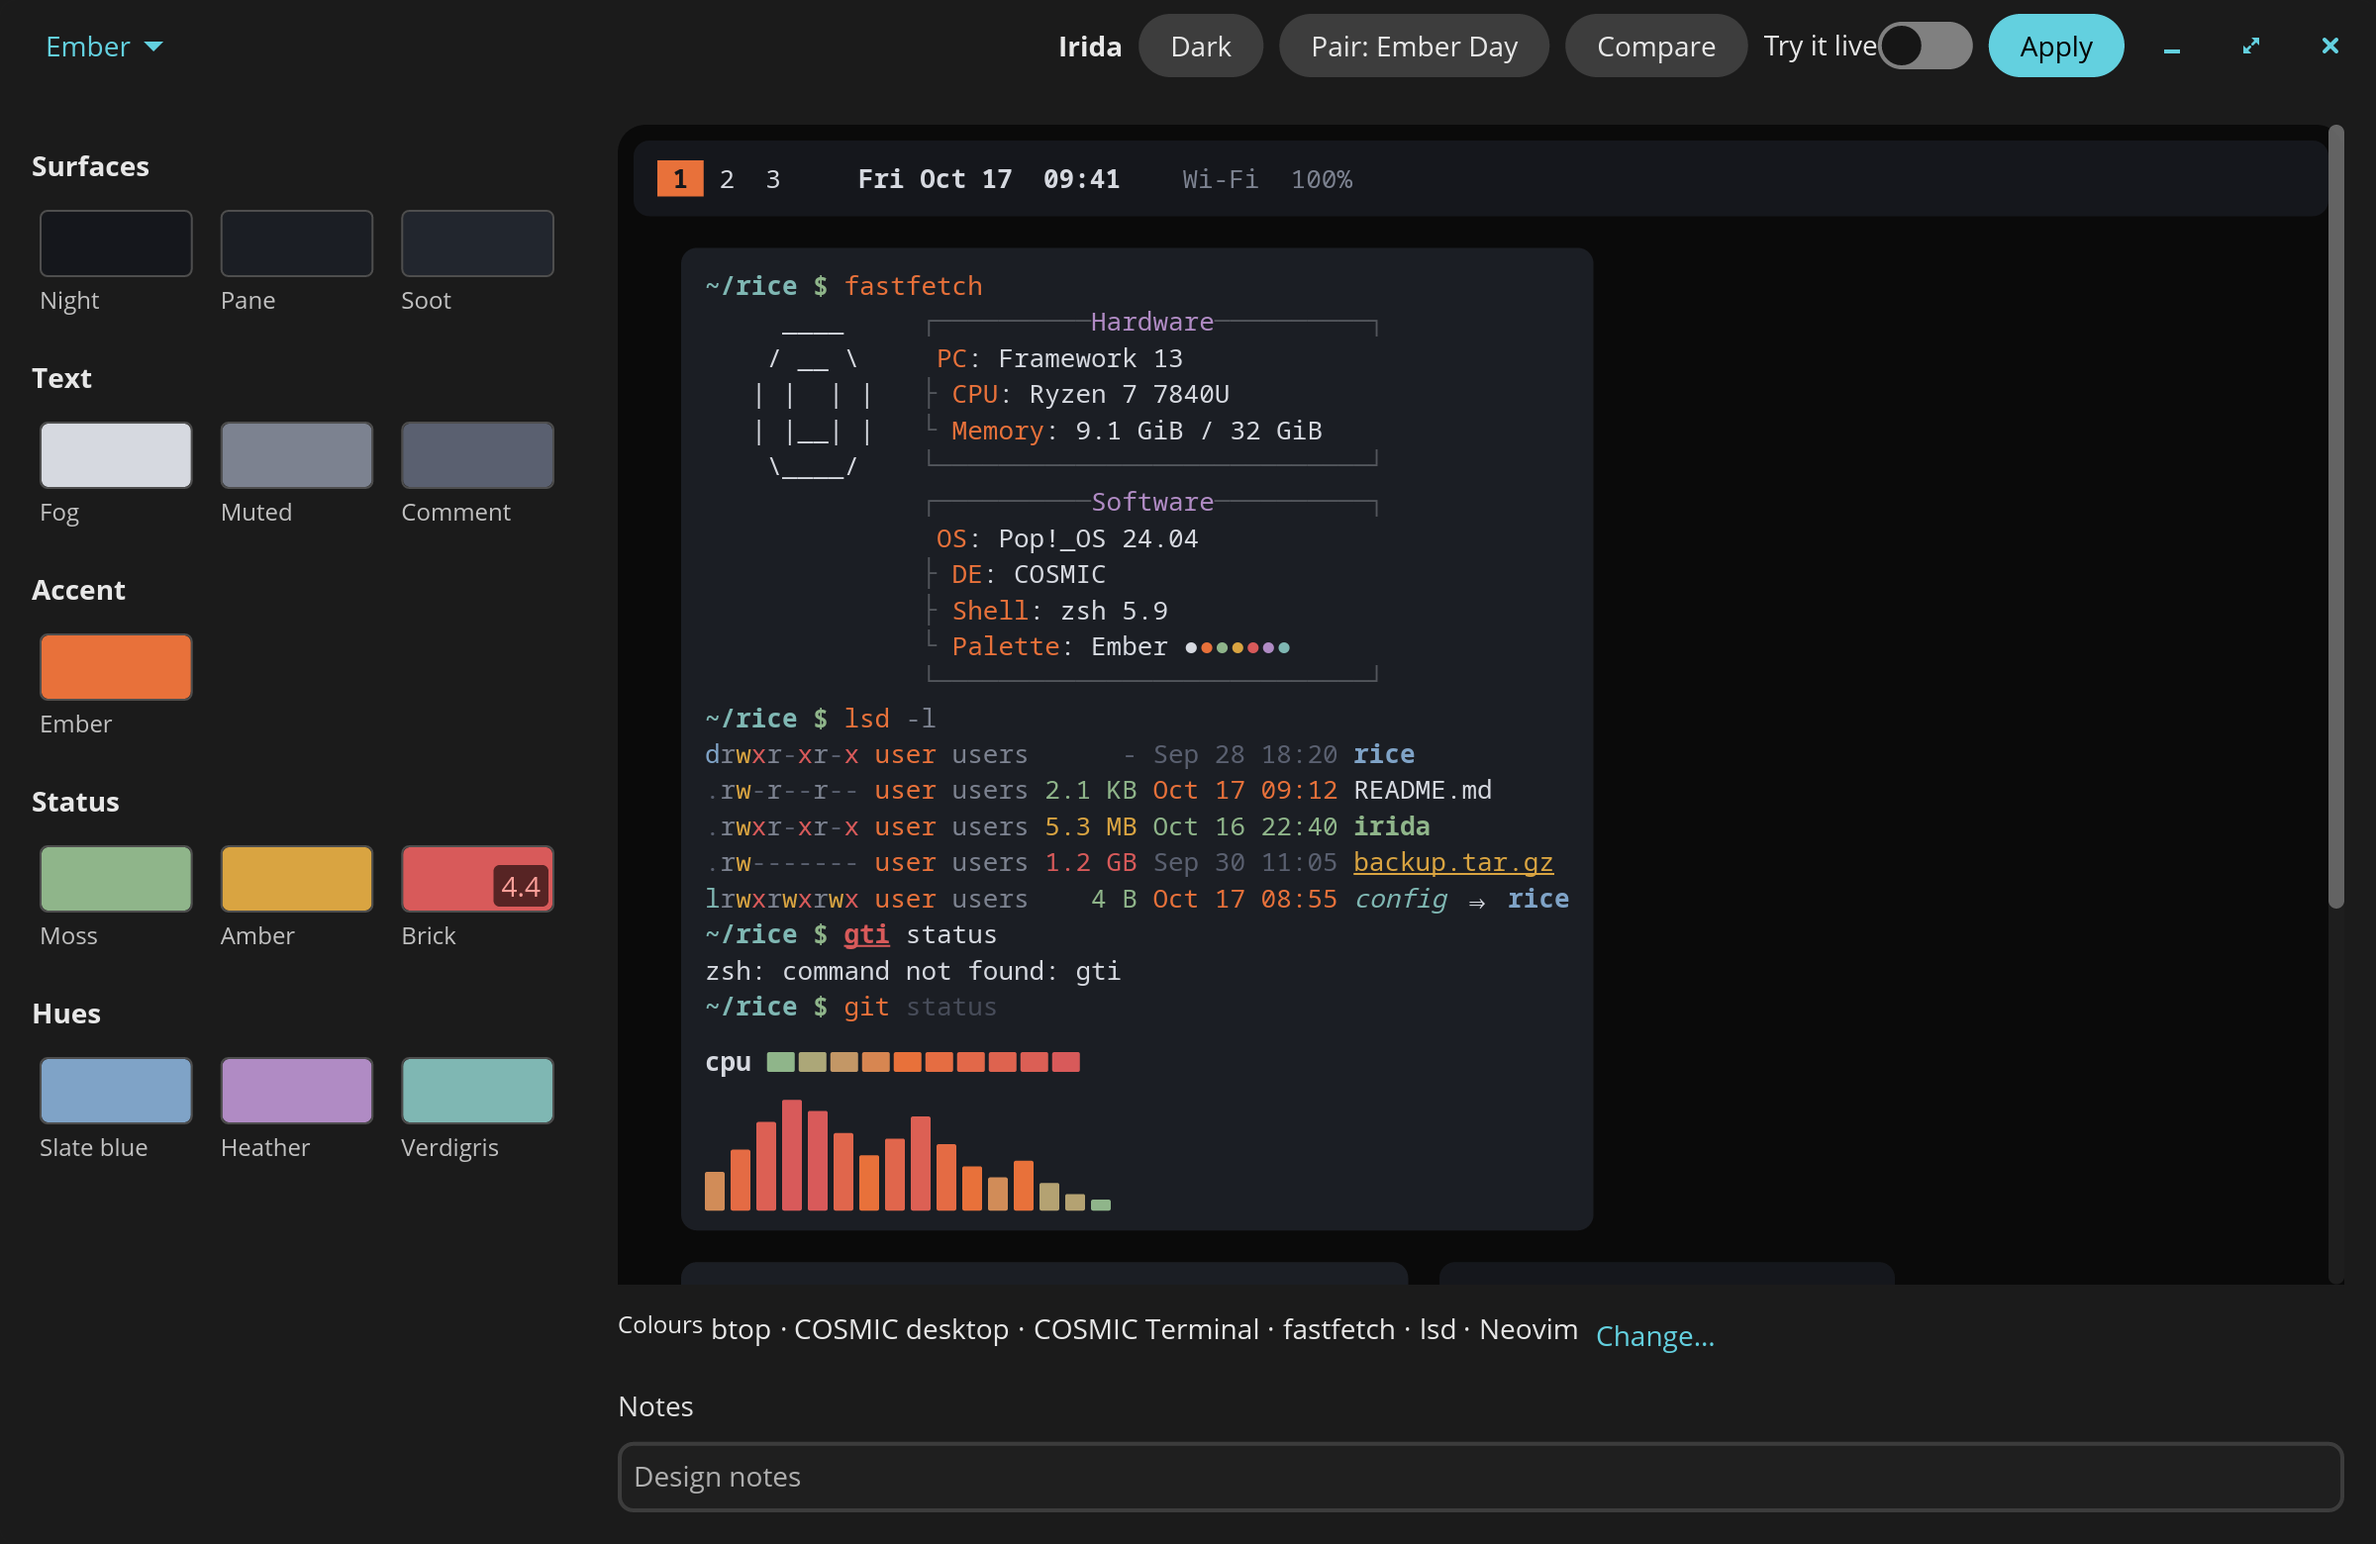
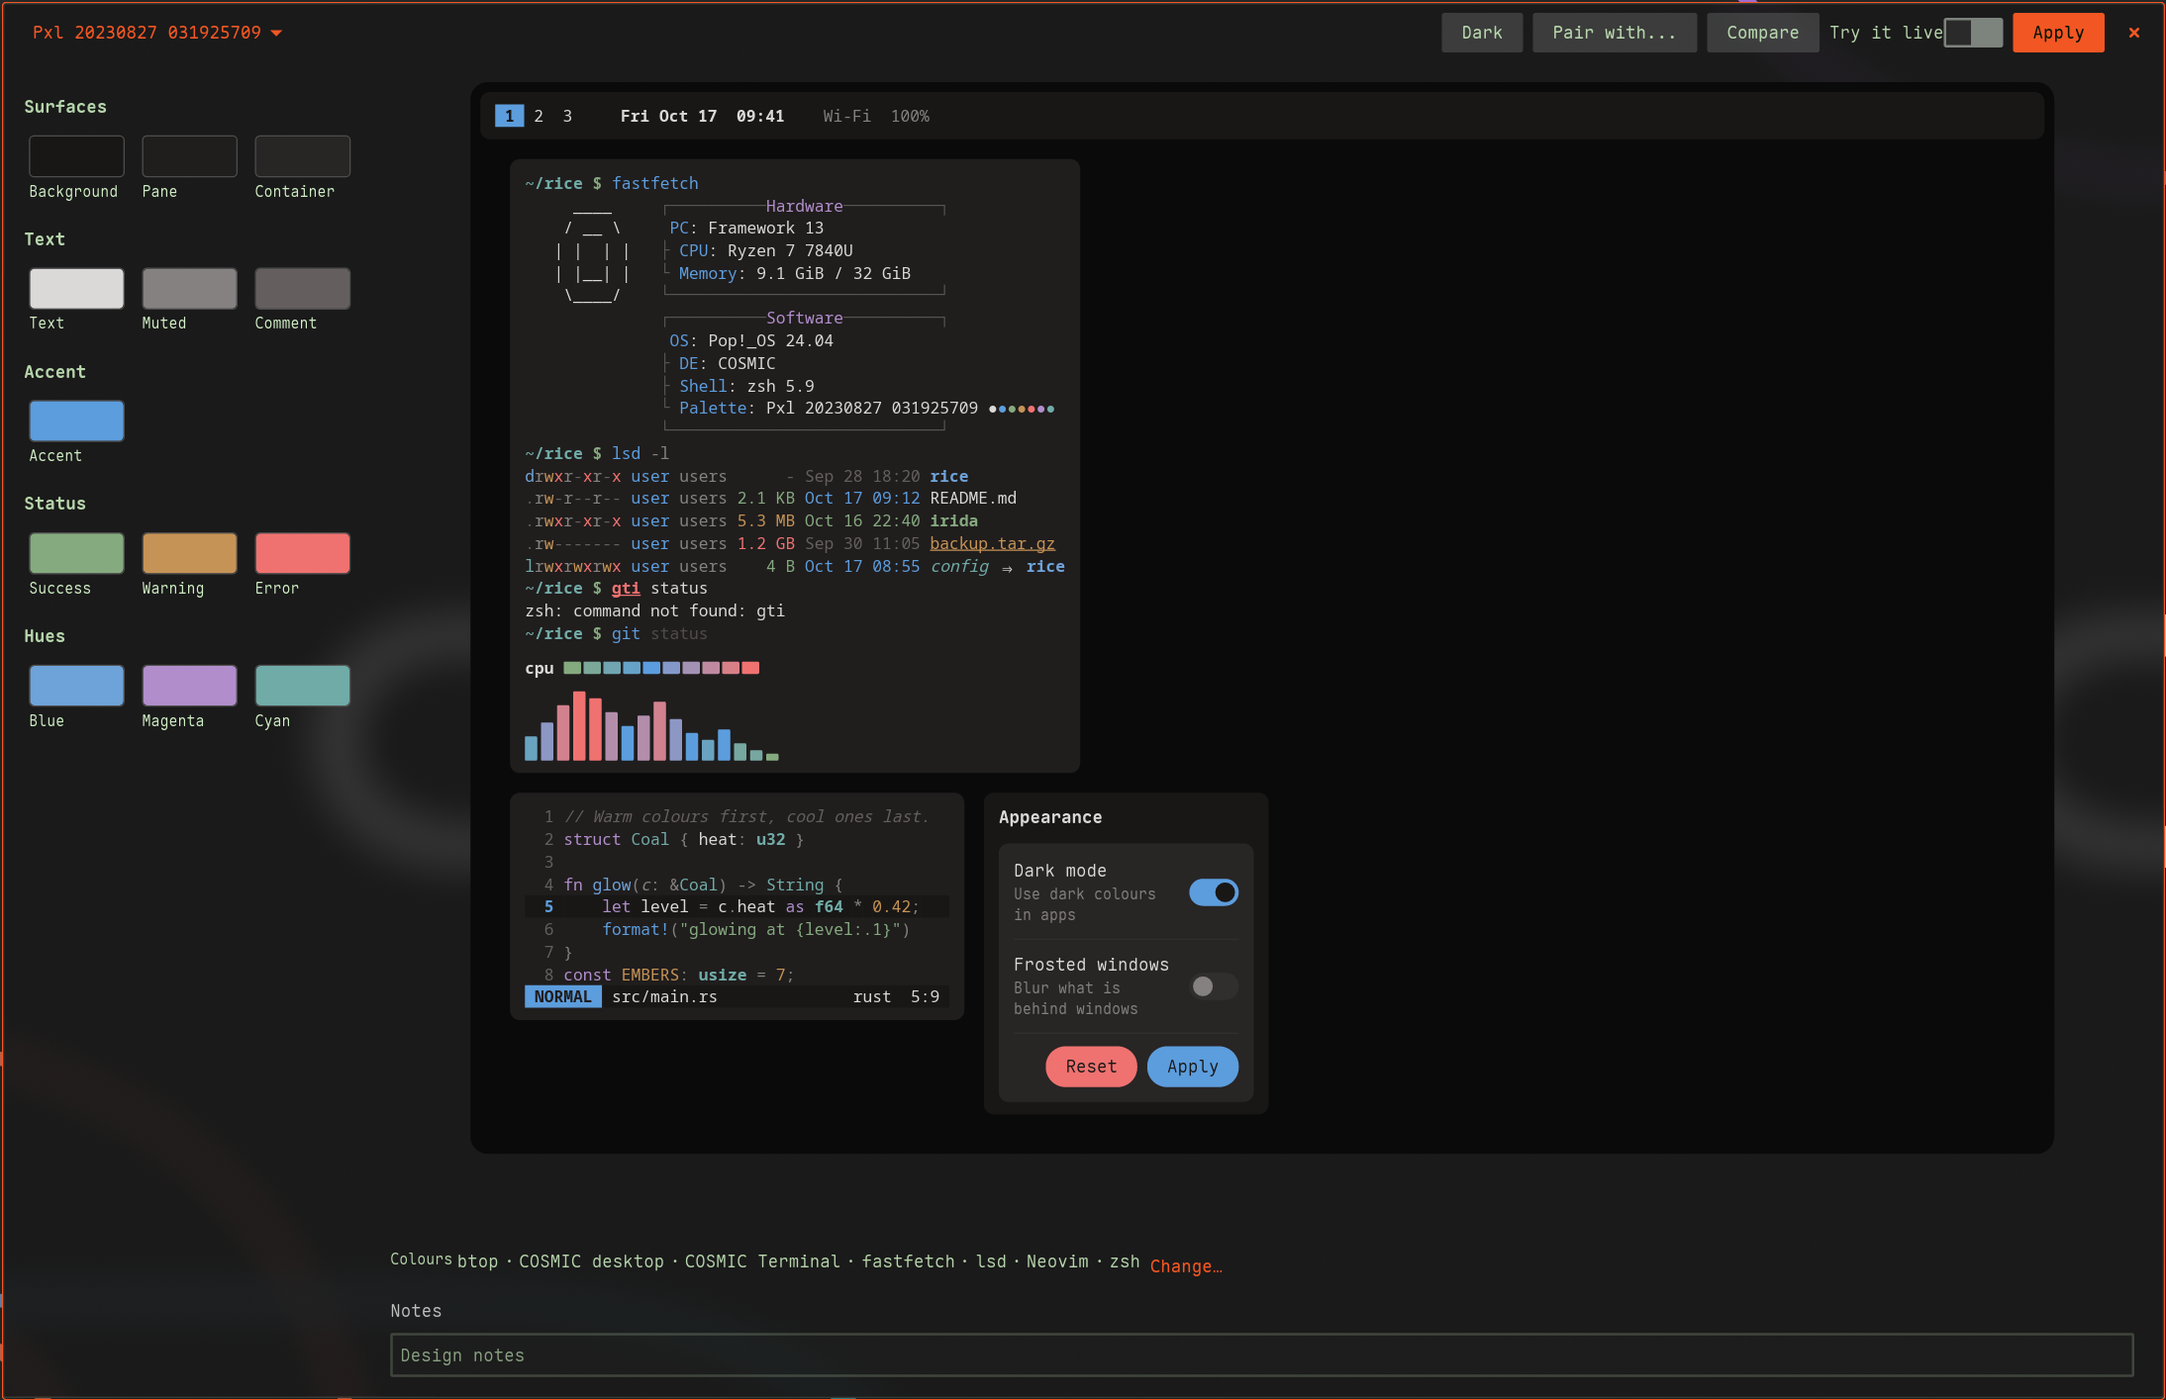
docs(readme): new screenshots of the wallpaper screen and the editor over a wallpaper

diff --git a/README.md b/README.md
@@ -16,7 +16,7 @@ Design a colour palette and apply it to COSMIC and the apps around it.
 
 ---
 
-![Irida editing Ember, a dark palette: its role tiles beside a preview of the panel, terminal, btop and Neovim](assets/screenshots/editor-dark.png)
+![Irida editing a palette drafted from the COSMIC wallpaper: role tiles, the preview drawn over the wallpaper, and Success open in the editor column with its contrast ratios and terminal colours](assets/screenshots/editor-wallpaper.png)
 
 Irida is a palette designer for the COSMIC desktop, named after Iris, the Greek
 goddess of the rainbow. A palette is 13 roles (background, text, accent, the
@@ -39,9 +39,9 @@ result to your desktop, terminal, editor and tools in one step.
 - **Import and export rices.** Open an existing `cosmic-*-theme` repository, or
   export a palette as a complete one.
 
-![Amber open in the editor column beside the preview: its picker, hex, contrast ratios and terminal colours](assets/screenshots/editor-role.png)
+![New from wallpaper: the image, a name, Dark or Light, the clusters it found and a contrast check, beside the preview](assets/screenshots/wallpaper.png)
 
-![Ember Day, the light half of the Ember pair, in the same editor](assets/screenshots/editor-light.png)
+![A dark palette in the editor with no wallpaper behind the preview](assets/screenshots/editor-dark.png)
 
 ## Supported apps
 
